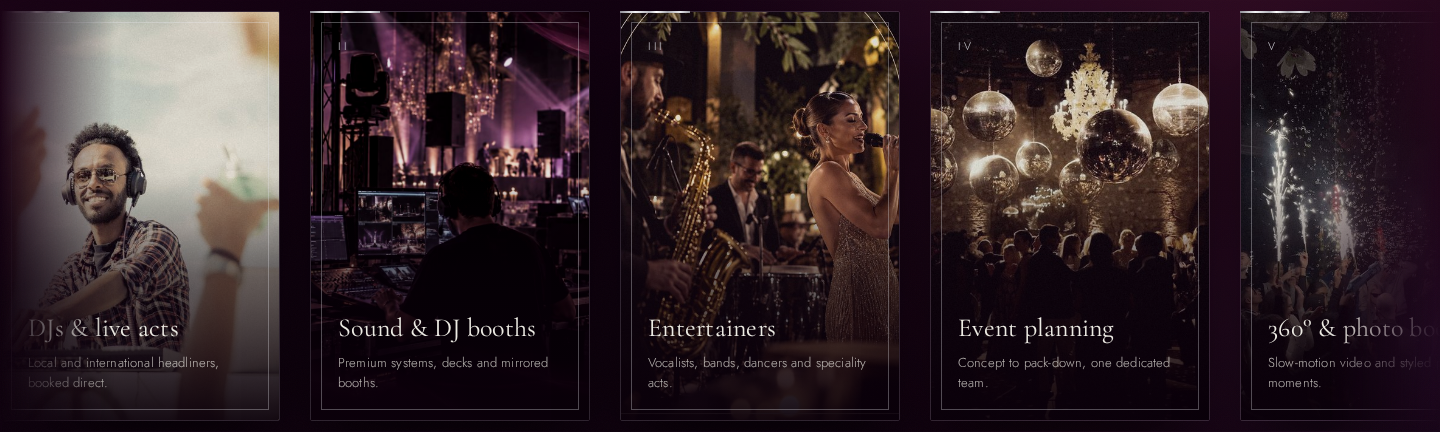
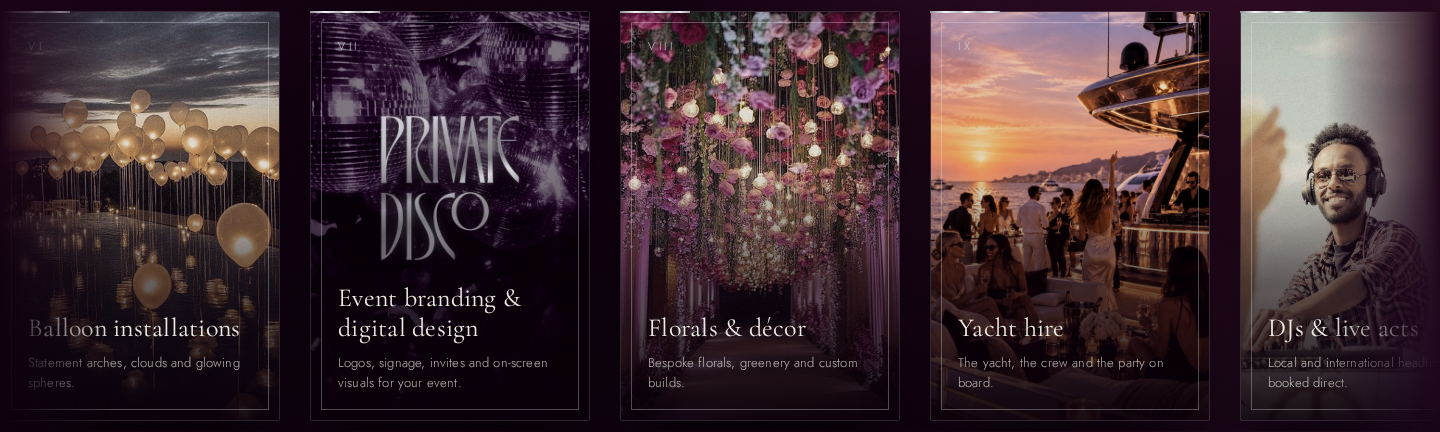
Add files via upload

diff --git a/index.html b/index.html
@@ -13,7 +13,7 @@
 <link rel="preconnect" href="https://fonts.googleapis.com"><link rel="preconnect" href="https://fonts.gstatic.com" crossorigin>
 <link href="https://fonts.googleapis.com/css2?family=Cormorant+Garamond:ital,wght@0,300;0,400;0,500;1,300;1,400;1,500&family=Jost:wght@300;400;500&display=swap" rel="stylesheet">
 <link rel="preload" as="image" href="assets/photos/hero-dj.jpg">
-<link rel="stylesheet" href="css/style.css?v=20261015113715">
+<link rel="stylesheet" href="css/style.css?v=20261015121951">
 </head>
 <body data-page="home">
 <div id="site-header"></div>
@@ -78,10 +78,10 @@
         <p>Local and international headliners, booked direct.</p>
       </a>
       <a class="arch-card" href="services.html">
-        <figure class="arch"><img src="assets/services/av-booth.jpg" alt="Sound engineer at the AV desk overlooking a lit event" loading="lazy" width="480" height="672"></figure>
+        <figure class="arch"><img src="assets/services/av-booth.jpg?v=2" alt="Sound engineer at the AV desk overlooking a lit event" loading="lazy" width="480" height="672"></figure>
         <span class="arch-num">II</span>
-        <h3>Sound &amp; DJ booths</h3>
-        <p>Premium systems, decks and mirrored booths.</p>
+        <h3>AV, sound &amp; equipment hire</h3>
+        <p>Sound systems, DJ booths, lighting and kit, delivered and run.</p>
       </a>
       <a class="arch-card" href="services.html">
         <figure class="arch"><img src="assets/services/entertainers.jpg?v=20261008161549" alt="" loading="lazy" width="480" height="672"></figure>
@@ -96,7 +96,7 @@
         <p>Concept to pack-down, one dedicated team.</p>
       </a>
       <a class="arch-card" href="services.html">
-        <figure class="arch"><img src="assets/services/booth.jpg?v=20261002095315" alt="" loading="lazy" width="480" height="672"></figure>
+        <figure class="arch"><img src="assets/services/booth-360.jpg" alt="Guests dancing on a 360 video booth platform" loading="lazy" width="480" height="672"></figure>
         <span class="arch-num">V</span>
         <h3>360° &amp; photo booths</h3>
         <p>Slow-motion video and styled photo moments.</p>
@@ -108,26 +108,20 @@
         <p>Statement arches, clouds and glowing spheres.</p>
       </a>
       <a class="arch-card" href="services.html">
-        <figure class="arch"><img src="assets/services/render.jpg?v=20261002095315" alt="" loading="lazy" width="480" height="672"></figure>
+        <figure class="arch"><img src="assets/services/event-branding.jpg" alt="Private Disco logo glowing over mirror balls" loading="lazy" width="480" height="672"></figure>
         <span class="arch-num">VII</span>
-        <h3>3D rendering</h3>
-        <p>See the room before a single piece arrives.</p>
-      </a>
-      <a class="arch-card" href="services.html">
-        <figure class="arch"><img src="assets/services/wardrobe.jpg" alt="" loading="lazy" width="480" height="672"></figure>
-        <span class="arch-num">VIII</span>
-        <h3>Wardrobe &amp; branding</h3>
-        <p>Costumes, uniforms and branded details.</p>
+        <h3>Event branding &amp; digital design</h3>
+        <p>Logos, signage, invites and on-screen visuals for your event.</p>
       </a>
       <a class="arch-card" href="services.html">
         <figure class="arch"><img src="assets/services/florals.jpg" alt="" loading="lazy" width="480" height="672"></figure>
-        <span class="arch-num">IX</span>
+        <span class="arch-num">VIII</span>
         <h3>Florals &amp; décor</h3>
         <p>Bespoke florals, greenery and custom builds.</p>
       </a>
       <a class="arch-card" href="services.html">
-        <figure class="arch"><img src="assets/services/yacht.jpg" alt="" loading="lazy" width="480" height="672"></figure>
-        <span class="arch-num">X</span>
+        <figure class="arch"><img src="assets/services/yacht-party.jpg" alt="Sunset party with a DJ on a yacht deck" loading="lazy" width="480" height="672"></figure>
+        <span class="arch-num">IX</span>
         <h3>Yacht hire</h3>
         <p>The yacht, the crew and the party on board.</p>
       </a>
@@ -138,10 +132,10 @@
         <p>Local and international headliners, booked direct.</p>
       </a>
       <a class="arch-card" aria-hidden="true" tabindex="-1" href="services.html">
-        <figure class="arch"><img src="assets/services/av-booth.jpg" alt="" loading="lazy" width="480" height="672"></figure>
+        <figure class="arch"><img src="assets/services/av-booth.jpg?v=2" alt="" loading="lazy" width="480" height="672"></figure>
         <span class="arch-num">II</span>
-        <h3>Sound &amp; DJ booths</h3>
-        <p>Premium systems, decks and mirrored booths.</p>
+        <h3>AV, sound &amp; equipment hire</h3>
+        <p>Sound systems, DJ booths, lighting and kit, delivered and run.</p>
       </a>
       <a class="arch-card" aria-hidden="true" tabindex="-1" href="services.html">
         <figure class="arch"><img src="assets/services/entertainers.jpg?v=20261008161549" alt="" loading="lazy" width="480" height="672"></figure>
@@ -156,7 +150,7 @@
         <p>Concept to pack-down, one dedicated team.</p>
       </a>
       <a class="arch-card" aria-hidden="true" tabindex="-1" href="services.html">
-        <figure class="arch"><img src="assets/services/booth.jpg?v=20261002095315" alt="" loading="lazy" width="480" height="672"></figure>
+        <figure class="arch"><img src="assets/services/booth-360.jpg" alt="" loading="lazy" width="480" height="672"></figure>
         <span class="arch-num">V</span>
         <h3>360° &amp; photo booths</h3>
         <p>Slow-motion video and styled photo moments.</p>
@@ -168,26 +162,20 @@
         <p>Statement arches, clouds and glowing spheres.</p>
       </a>
       <a class="arch-card" aria-hidden="true" tabindex="-1" href="services.html">
-        <figure class="arch"><img src="assets/services/render.jpg?v=20261002095315" alt="" loading="lazy" width="480" height="672"></figure>
+        <figure class="arch"><img src="assets/services/event-branding.jpg" alt="" loading="lazy" width="480" height="672"></figure>
         <span class="arch-num">VII</span>
-        <h3>3D rendering</h3>
-        <p>See the room before a single piece arrives.</p>
-      </a>
-      <a class="arch-card" aria-hidden="true" tabindex="-1" href="services.html">
-        <figure class="arch"><img src="assets/services/wardrobe.jpg" alt="" loading="lazy" width="480" height="672"></figure>
-        <span class="arch-num">VIII</span>
-        <h3>Wardrobe &amp; branding</h3>
-        <p>Costumes, uniforms and branded details.</p>
+        <h3>Event branding &amp; digital design</h3>
+        <p>Logos, signage, invites and on-screen visuals for your event.</p>
       </a>
       <a class="arch-card" aria-hidden="true" tabindex="-1" href="services.html">
         <figure class="arch"><img src="assets/services/florals.jpg" alt="" loading="lazy" width="480" height="672"></figure>
-        <span class="arch-num">IX</span>
+        <span class="arch-num">VIII</span>
         <h3>Florals &amp; décor</h3>
         <p>Bespoke florals, greenery and custom builds.</p>
       </a>
       <a class="arch-card" aria-hidden="true" tabindex="-1" href="services.html">
-        <figure class="arch"><img src="assets/services/yacht.jpg" alt="" loading="lazy" width="480" height="672"></figure>
-        <span class="arch-num">X</span>
+        <figure class="arch"><img src="assets/services/yacht-party.jpg" alt="" loading="lazy" width="480" height="672"></figure>
+        <span class="arch-num">IX</span>
         <h3>Yacht hire</h3>
         <p>The yacht, the crew and the party on board.</p>
       </a>
@@ -259,7 +247,7 @@
 </main>
 
 <div id="site-footer"></div>
-<script src="js/config.js?v=20261015113715"></script>
-<script src="js/main.js?v=20261015113715"></script>
+<script src="js/config.js?v=20261015121951"></script>
+<script src="js/main.js?v=20261015121951"></script>
 </body>
 </html>

diff --git a/services.html b/services.html
@@ -9,7 +9,7 @@
 <link rel="icon" href="assets/favicon.png">
 <link rel="preconnect" href="https://fonts.googleapis.com"><link rel="preconnect" href="https://fonts.gstatic.com" crossorigin>
 <link href="https://fonts.googleapis.com/css2?family=Cormorant+Garamond:ital,wght@0,300;0,400;0,500;1,300;1,400;1,500&family=Jost:wght@300;400;500&display=swap" rel="stylesheet">
-<link rel="stylesheet" href="css/style.css?v=20261015113715">
+<link rel="stylesheet" href="css/style.css?v=20261015121951">
 </head>
 <body data-page="services">
 <div id="site-header"></div>
@@ -49,7 +49,7 @@
 
   <div class="wrap">
     <section class="detail reveal" id="av" data-num="II">
-      <div><p class="eyebrow">II. Production &amp; AV Hire</p><h2>Sound, booths &amp; spectacle</h2></div>
+      <div><p class="eyebrow">II. AV, Sound &amp; Equipment Hire</p><h2>Sound, booths &amp; spectacle</h2></div>
       <div>
         <p class="lead">Premium kit delivered, installed and run by our own team, sized to your venue, whether that's a yacht deck or a villa terrace.</p>
         <div class="cols">
@@ -65,7 +65,7 @@
         <p class="lead">We design and build environments that transform spaces and elevate experiences. Every design is created for your event, never off the shelf.</p>
         <div class="cols">
           <div><h4>Installations</h4><ul><li>Bespoke floral concepts &amp; greenery</li><li>Seasonal décor &amp; themed styling</li><li>Balloon installations</li><li>Custom fabrications</li></ul></div>
-          <div><h4>Creative studio</h4><ul><li>Immersive, purpose-built environments</li><li>3D rendering &amp; AI image support</li><li>Branding, wardrobe &amp; costume creation</li></ul></div>
+          <div><h4>Creative studio</h4><ul><li>Immersive, purpose-built environments</li><li>3D rendering &amp; AI image support</li><li>Event branding &amp; digital design</li></ul></div>
         </div>
       </div>
     </section>
@@ -155,7 +155,7 @@
 </main>
 
 <div id="site-footer"></div>
-<script src="js/config.js?v=20261015113715"></script>
-<script src="js/main.js?v=20261015113715"></script>
+<script src="js/config.js?v=20261015121951"></script>
+<script src="js/main.js?v=20261015121951"></script>
 </body>
 </html>

diff --git a/competition.html b/competition.html
@@ -9,7 +9,7 @@
 <link rel="icon" href="assets/favicon.png">
 <link rel="preconnect" href="https://fonts.googleapis.com"><link rel="preconnect" href="https://fonts.gstatic.com" crossorigin>
 <link href="https://fonts.googleapis.com/css2?family=Cormorant+Garamond:ital,wght@0,300;0,400;0,500;1,300;1,400;1,500&family=Jost:wght@300;400;500&display=swap" rel="stylesheet">
-<link rel="stylesheet" href="css/style.css?v=20261015113715">
+<link rel="stylesheet" href="css/style.css?v=20261015121951">
 </head>
 <body data-page="competition">
 <div id="site-header"></div>
@@ -138,8 +138,8 @@
 </main>
 
 <div id="site-footer"></div>
-<script src="js/config.js?v=20261015113715"></script>
-<script src="js/main.js?v=20261015113715"></script>
-<script src="js/competition.js?v=20261015113715"></script>
+<script src="js/config.js?v=20261015121951"></script>
+<script src="js/main.js?v=20261015121951"></script>
+<script src="js/competition.js?v=20261015121951"></script>
 </body>
 </html>

diff --git a/contact.html b/contact.html
@@ -9,7 +9,7 @@
 <link rel="icon" href="assets/favicon.png">
 <link rel="preconnect" href="https://fonts.googleapis.com"><link rel="preconnect" href="https://fonts.gstatic.com" crossorigin>
 <link href="https://fonts.googleapis.com/css2?family=Cormorant+Garamond:ital,wght@0,300;0,400;0,500;1,300;1,400;1,500&family=Jost:wght@300;400;500&display=swap" rel="stylesheet">
-<link rel="stylesheet" href="css/style.css?v=20261015113715">
+<link rel="stylesheet" href="css/style.css?v=20261015121951">
 </head>
 <body data-page="contact">
 <div id="site-header"></div>
@@ -86,8 +86,8 @@
 </main>
 
 <div id="site-footer"></div>
-<script src="js/config.js?v=20261015113715"></script>
-<script src="js/main.js?v=20261015113715"></script>
+<script src="js/config.js?v=20261015121951"></script>
+<script src="js/main.js?v=20261015121951"></script>
 <script>
 (function () {
   const f = document.getElementById("enquiry"), st = document.getElementById("e-status");

diff --git a/talent.html b/talent.html
@@ -9,7 +9,7 @@
 <link rel="icon" href="assets/favicon.png">
 <link rel="preconnect" href="https://fonts.googleapis.com"><link rel="preconnect" href="https://fonts.gstatic.com" crossorigin>
 <link href="https://fonts.googleapis.com/css2?family=Cormorant+Garamond:ital,wght@0,300;0,400;0,500;1,300;1,400;1,500&family=Jost:wght@300;400;500&display=swap" rel="stylesheet">
-<link rel="stylesheet" href="css/style.css?v=20261015113715">
+<link rel="stylesheet" href="css/style.css?v=20261015121951">
 </head>
 <body data-page="talent">
 <div id="site-header"></div>
@@ -86,7 +86,7 @@
 </main>
 
 <div id="site-footer"></div>
-<script src="js/config.js?v=20261015113715"></script>
-<script src="js/main.js?v=20261015113715"></script>
+<script src="js/config.js?v=20261015121951"></script>
+<script src="js/main.js?v=20261015121951"></script>
 </body>
 </html>
